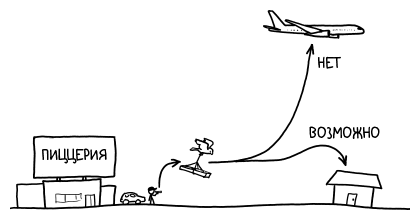
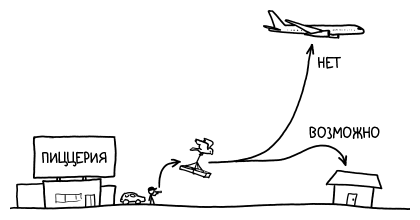
Text and images fix for Pizza Bird

Changed region(s): [[0.0929, 0.6545, 0.2786, 0.7636]]

diff --git a/content/what-if/149-pizza-bird.md b/content/what-if/149-pizza-bird.md
@@ -15,6 +15,8 @@ Image: https://chtoes.li/uploads/149-pizza-bird/front.png
 
 Пожалуй, птица смогла бы принести пиццу в дом. А вот на авиалайнер будет посложнее.
 
+![](/uploads/149-pizza-bird/setup_ru.png "[Изображение предоставлено службой контроля доставки Domino’s.]")
+
 Пицца диаметром 50 см весит порядка 1,8 кг[^1]. Это раз в 100 тяжелее воробья, так что птичка понадобится немелкая. К счастью, есть много разнообразных пернатых крупнее пиццы: орлы, лебеди, журавли, пеликаны, альбатросы. Впрочем, некоторые из них управились бы с доставкой пиццы лучше других. Все дело в форме крыльев.
 
 [^1]: Источник: я специально заказал пиццу, чтобы проверить. Обычно я избегаю научных экспериментов для этих статей, но согласен на исключение, если в его рамках нужно слопать уйму пиццы.
@@ -37,6 +39,8 @@ Image: https://chtoes.li/uploads/149-pizza-bird/front.png
 
 [^6]: [Прямая трансляция][8] из комфортабельного гнезда сапсана в Аризоне.
 
+![](/uploads/149-pizza-bird/pickup_ru.png "Начинка у пиццы будет странноватой."
+
 Но одно дело *поднять* пиццу, а как насчет доставки на авиалайнер?
 
 Птицы парящего полета, вроде грифов и орлов, могут подниматься невероятно высоко на восходящих теплых потоках[^7]. В тропиках солнце прогревает их сильнее всего, поэтому самолеты встречали[^8] африканских сипов, парящих на высотах более 10&nbsp;километров. Это крейсерская высота авиалайнера. Но чтобы забраться на такую высоту, нужны идеальные условия полета, а «пристегнутая к спине пицца» к ним не относится.
@@ -51,11 +55,11 @@ Image: https://chtoes.li/uploads/149-pizza-bird/front.png
 
 Если наклонить коробку с пиццей слишком сильно, сыр с одной из сторон слезет. Этот критический угол разнится от пиццы к пицце и сильно зависит от температуры, но давайте предположим, что он примерно равен 45°. В этом случае пицца выдержит боковое ускорение до 1&nbsp;g[^9]. Чтобы набрать крейсерскую скорость авиалайнера (800&nbsp;км/ч), нужно обеспечить это ускорение на дистанции в [два с половиной километра][9]. Другими словами, за самолетом должен тянуться 2,5-километровый механизм, который бы осторожно втягивал пиццу в салон.
 
-[^9]: Предположим, что вам удалось сохранить пиццу горячей на такой большой высоте — потому что какой монстр доставляет холодную пиццу?
+[^9]: Будем считать, что вам удалось сохранить пиццу горячей на такой большой высоте — потому что какой монстр доставляет холодную пиццу?
 
 ![](/uploads/149-pizza-bird/mechanism_ru.png "А НУ ВАЛИ С МОЕГО САМОЛЕТА! Смотайся за пиццей и пулей обратно.")
 
-Но погодите, эти расчеты учитывают *боковое* ускорение. Пиццы&nbsp;— как и люди[10]&nbsp;— лучше переносят лобовое ускорение. Если при передаче пицца будет вращаться, то выдержит куда большее ускорение, так что нам понадобится не такая длинная лебедка.
+Но погодите, эти расчеты учитывают *боковое* ускорение. Пиццы&nbsp;— [как и люди][10]&nbsp;— лучше переносят лобовое ускорение. Если при передаче пицца будет вращаться, то выдержит куда большее ускорение, так что нам понадобится не такая длинная лебедка.
 
 Какое лобовое ускорение могла бы пережить пицца, не размазавшись по дну коробки? Я не нашел никаких данных на этот счет, но если кто-нибудь захочет незаметно пронести пиццу в центрифугу, дерзайте. Главное, не забудьте сделать фотки!
 
